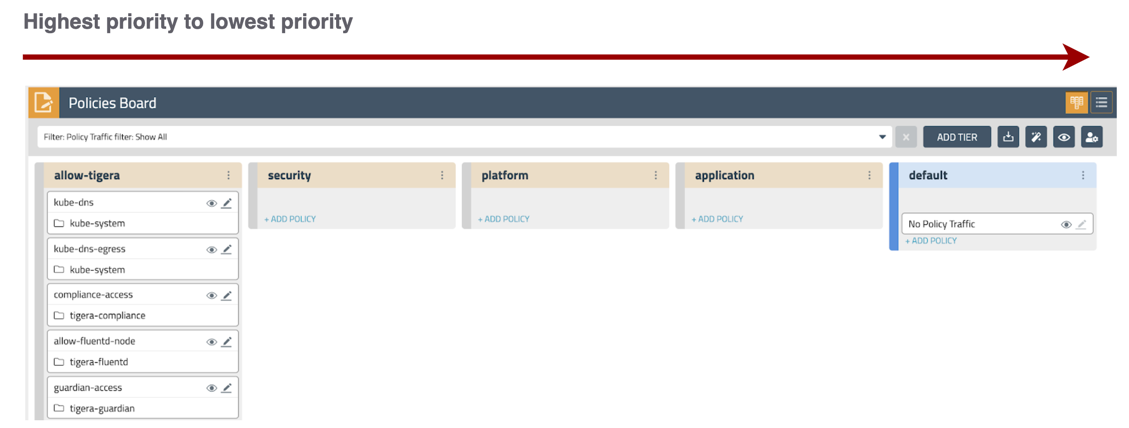
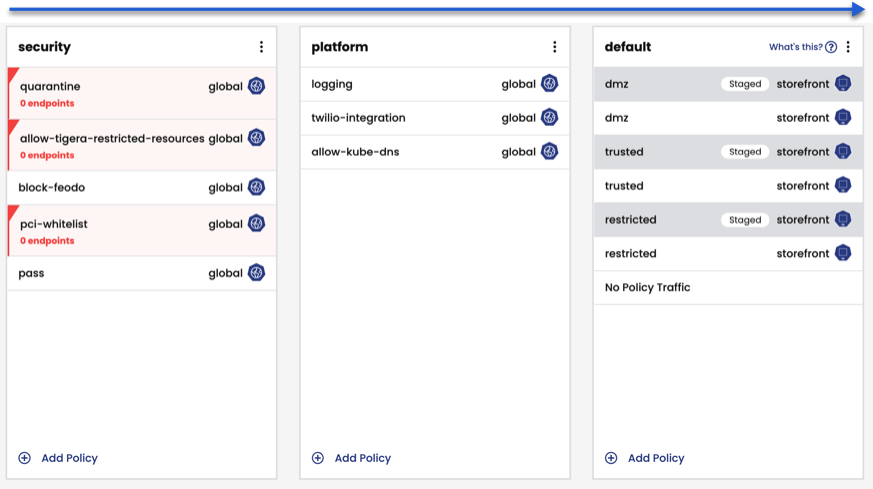
Fix text to match diagram (#4453)

Changed region(s): [[0.0, 0.0, 0.9897, 1.0], [0.3402, 0.9112, 0.4639, 0.972], [0.6804, 0.486, 0.7423, 0.5467]]

diff --git a/calico/security/tiered-policy.md b/calico/security/tiered-policy.md
@@ -4,63 +4,51 @@ description: Understand how tiered policy works and supports microsegmentation.
 canonical_url: /security/tiered-policy
 ---
 
-### Big picture
+### Seamless network policy integration
 
-Learn the basics of tiered policy in {{site.prodname}}.
+**Network policy** is the primary tool for securing a Kubernetes network. It lets you restrict network traffic in your cluster so only the traffic that you want to flow is allowed. {{site.prodname}} provides more robust policy than Kubernetes, but you can use them together -- seamlessly. {{site.prodname}} supports:
 
-### About policy 
+- {{site.prodname}} network policy, (namespaced)
+- {{site.prodname}} global network policy (non-namespaced, global)
+- Kubernetes network policy 
 
-Network policy is the primary tool for securing a Kubernetes network. It lets you restrict network traffic in your cluster so only the traffic that you want to flow is allowed. {{site.prodname}} supports:
+### Tiers: what and why?
 
-- {{site.prodname}} network policy
-- {{site.prodname}} global network policy
-- Kubernetes network policy
+**Tiers** are a hierarchical construct used to group policies and enforce higher precedence policies that cannot be circumvented by other teams. As you will learn in this tutorial, tiers have built-in features that support workload microsegmentation. 
 
-The ability to use both types of policies in the same workflow promotes self-service for microservices teams, while preserving the security controls required by security teams.  
-
-### About tiers 
-
-**Tiers** are a hierarchical construct used to group policies and enforce higher precedence policies that cannot be circumvented by other teams. As part of your microsegmentation strategy, tiers let you apply identity-based protection to workloads and hosts. All {{site.prodname}} and Kubernetes network policies reside in **tiers**.  (Tiers are one of the major feature differences between Project Calico open-source and {{site.prodname}}.) 
-
-To start "thinking in tiers", you can group your teams and types of policies. For example, 
+All {{site.prodname}} and Kubernetes network policies reside in tiers. You can start "thinking in tiers" by grouping your teams and types of policies within each group. For example, we recommend these three tiers (platform, security, and application).
 
 ![policy-types]({{site.baseurl}}/images/policy-types.png)
 
-Next, you can determine the priority of policies in tiers, and draft your policies including whether to use namespaced policy, global policies, and Kubernetes policies. In the following example, the security team and platform teams can manage global {{site.prodname}} network policies that apply to all pods, while developer teams can safely manage pods within namespaces for their microservices using Kubernetes network policy. 
+Next, you can determine the priority of policies in tiers (from top to bottom). In the following example, that platform and security tiers use {{site.prodname}} global network policies that apply to all pods, while developer teams can safely manage pods within namespaces using Kubernetes network policy for their applications and microservices. 
 
 ![policy-tiers]({{site.baseurl}}/images/policy-tiers.png)
 
-### Tier layout in Policy Board 
+### Create a tier and policy
 
-All of the previous steps can be done right in Manager UI, which is a good place to start. Policy Board is a graphical view of your policies in tiers and policies. 
+To create a tier and policy in Manager UI:
 
-To create a tier in Policy Board:
+1. In the left navbar, click **Policies**.
+1. On the **Policies Board**, click **Add Tier**.
+1. Name the tier, select **Order, Add after** `tigera-security`, and save. 
+1. To create a policy in the tier, click **+ Add policy**.
 
-1. From the left navigation bar, click **Policies**.
-1. Click the policy board icon.
-   ![policy-board]({{site.baseurl}}/images/policy-board.png) 
-1. Click **Add Tier**.
-1. Name the tier, select Order, Add after `allow-tigera`, and save. 
+You can export all policies or a single policy to a YAML file.   
 
-**Alternative YAML**
+Here is a sample YAML that creates a security tier and uses `kubectl` to apply it. 
 
 ```yaml
-  apiVersion: projectcalico.org/v3
-  kind: Tier
-  metadata:
-    name: security
-  spec:
-    order: 300
+apiVersion: projectcalico.org/v3
+kind: Tier
+metadata:
+  name: security
+spec:
+ order: 300
 ```
-
-Apply the YAML using `kubectl`.
 
 ```bash
 kubectl apply -f security.yaml
 ```
-1. To create a policy, click the menu and select **Add policy**.
-   ![add-policy]({{site.baseurl}}/images/add-policy.png)
-
 
 ### The default tier: always last
 
@@ -68,38 +56,52 @@ The default tier is created during installation and is always the last tier.
 
 ![default-tier]({{site.baseurl}}/images/default-tier.png)
 
-It is the tier where:
+The default tier is where:
 
-- You manage all of your Kubernetes network policies
-- Calico open source network policies land if you upgrade to {{site.prodname}}
-- The policy recommendation feature puts recommended policies
-
+- You manage all Kubernetes network policies
+- Network and global network policies are placed when you upgrade from Project Calico to {{site.prodname}}
+- Recommended policies are placed when you use the **Recommend a policy** feature
+  
 ### System tiers
 
-System tiers are hidden by default. Currently, we have the `allow-tigera` tier that contains policies for {{site.prodname}} components. System tiers should not be edited or reordered. 
+System tiers are added during installation and are hidden by default. 
 
-![system-tiers]({{site.baseurl}}/images/system-tiers.png)
+- **allow-tigera** - contains component policies 
+   
+>**Important!** Do not modify these tiers or change their order. Create all of your tiers after system tiers.
+{: .alert .alert-warning}
 
->**Tip**: To reorder tiers, you must first make all tiers are visible. Click the “Toggle Tiers” icon and select “Show All”.
-{: .alert .alert-info}
+### Moving tiers
 
-![show-all-tiers]({{site.baseurl}}/images/show-all-tiers.png)
+You can move tiers by dragging and moving them in the graphical sequence, but all tiers must be visible first before you reorder tiers.   
 
+To show all tiers, click **View** and select all of the tiers in the Show tiers list. 
+
+![hidden-tiers]({{site.baseurl}}/images/hidden-tiers.png)
+
+Now you can reorder tiers by dragging and moving them.
+    
 ### Tier order 
 
-Tiers are ordered from left to right, starting with highest priority (also called highest precedence) tiers. In the following example, tier priorities are as follows:
+Tiers are ordered from left to right, starting with the highest priority (also called highest precedence) tiers. 
 
 ![tier-order]({{site.baseurl}}/images/tier-order.png)
 
-The tier you put first as highest priority depends on your environment. In compliance-driven environments, it is common for security teams to request that the security tier be the highest priority --  to ensure the cluster is in compliance at all times. However, if you’re trying to ensure platform communication first, you can put the platform tier first as shown in the above example. There is no one-size-fits-all order.
+In the example above, tier priorities are as follows:
+
+- **security tier** - is higher priority than application tier 
+- **platform tier** - is higher priority than security tier
+- **default tier** - is always the last tier, and cannot be reordered 
+
+The tier you put as the highest priority (after system tiers), depends on your environment. In compliance-driven environments, the security tier may be the highest priority (as shown above). There is no one-size-fits-all order. 
 
 ### Policy processing
 
-Policies are processed in sequential order from the top of a tier, to the bottom of a tier. 
+Policies are processed in sequential order from top to bottom.
 
 ![policy-processing]({{site.baseurl}}/images/policy-processing.png)
 
-There are two important mechanisms that drive how traffic is processed across tiered policies:
+Two mechanisms drive how traffic is processed across tiered policies:
 
 - Labels and selectors
 - Policy action rules
@@ -109,7 +111,8 @@ It is important to understand the roles they play.
 #### Labels and selectors
 
 Instead of IP addresses and IP ranges, network policies in Kubernetes depend on labels and selectors to determine which workloads can talk to each other. Workload identity is the same for Kubernetes and {{site.prodname}} network policies: as pods dynamically come and go, network policy is enforced based on the labels and selectors that you define. 
-The following diagrams shows the relationship between all of the elements that affect traffic flow: 
+
+The following diagrams show the relationship between all of the elements that affect traffic flow: 
 
 - **Tiers** group and order policies
 - **Policy action rules** define how to process traffic in and across tiers, and policy labels and selectors specify how groups of pods are allowed to communicate with each other and other network endpoints
@@ -131,7 +134,7 @@ As shown in the following diagram, at the end of each tier is an implicit defaul
 
 ![implicit-deny]({{site.baseurl}}/images/implicit-deny.svg)
 
-Let’s look at a Dev/Ops global network policy in a high precedence tier (Platform). The policy denies ingress and egress traffic to workloads that match selector, `env != "stage"`. To ensure that policies continue to evaluate traffic after this policy, the policy adds an action: pass for both ingress and egress.
+Let’s look at a Dev/Ops global network policy in a high precedence tier (Platform). The policy denies ingress and egress traffic to workloads that match selector, `env != "stage"`. To ensure that policies continue to evaluate traffic after this policy, the policy adds a Pass action for both ingress and egress.
 
 **Pass action rule example**
 
@@ -163,13 +166,13 @@ spec:
 
 Whoever is responsible for tier creation, also needs to understand how policy selects matching endpoints across tiers. For normal policy processing (without apply-on-forward, pre-DNAT, and do-not-track), if no policies within a tier apply to endpoints, the tier is skipped, and the tier's implicit deny behavior is not executed. 
 
-For example, if policy D in Tier 1 includes a **Pass** action rule, but no policy matches endpoints in Tier 2, Tier 2 is skipped, including the end of tier deny. And the first policy with a matching endpoint is in Tier 3, **policy J**.
+For example, if policy D in Tier 2 includes a **Pass action rule**, but no policy matches endpoints in Tier 3, Tier 3 is skipped, including the end of tier deny. The first policy with a matching endpoint is in Tier 4, policy J.
 
 ![endpoint-match]({{site.baseurl}}/images/endpoint-match.svg)
 
 #### Default endpoint behavior
 
-Also, tier managers need to understand the default behavior for endpoints based whether the endpoint is known or unknown, and the endpoint type. As shown in the following table: 
+Also, tier managers need to understand the default behavior for endpoints based on whether the endpoint is known or unknown, and the endpoint type. As shown in the following table: 
 
 - **Known endpoints** - {{site.prodname}} resources that are managed by Felix
 - **Unknown endpoints** - interfaces/resources not recognizable as part of our data model 
@@ -178,7 +181,7 @@ Also, tier managers need to understand the default behavior for endpoints based 
 | ---------------- | -------------------------------------------- | -------------------------------------------- |
 | Workload, {{site.prodname}} | Deny | Deny |
 | Workload, Kubernetes | Allow ingress from same Kubernetes namespace; allow all egress | Deny |
-| Host        | Deny. With exception of auto host endpoints, which gets `default-allow `. | Fall through and use iptable rules |
+| Host        | Deny. With exception of auto host endpoints, which get `default-allow`. | Fall through and use iptable rules |
 
 ### Best practices for tiered policy
 
@@ -186,16 +189,16 @@ To control and authorize access to {{site.prodname}} tiers, policies, and Kubern
 
 We recommend:
 
-- Limit tier creation permissions to Admin users only (`tigera-network-admin`); creating and reordering tiers affects your policy processing workflow 
+- Limit tier creation permissions to Admin users only; creating and reordering tiers affects your policy processing workflow 
 
 - Limit full CRUD operations on tiers and policy management to select Admin users
 
 - Review your policy processing whenever you add/reorder tiers  
 
-  For example, you may need to add new Pass action rules to policies before or after the new tier. Intervening tiers may require changes to policies before and after, depending on the endpoints.
+  For example, you may need to update Pass action rules to policies before or after the new tier. Intervening tiers may require changes to policies before and after, depending on the endpoints.
 
-- Use the [staged network policy]({{site.baseurl}}/security/policy-lifecycle/) feature to eliminate any cluster/network outage caused by introducing new policies. You can preview the new policy and see its effect in action before enforcing it.  
+- Use the **policy preview** feature to see effects of policy in action before enforcing it, and use the **staged network policy** feature to test the entire tier workflow before pushing it to production  
 
 ### Above and beyond
 
-- For details on using RBAC for fine-grained access to tiers and policies, see [Configure RBAC for tiered policies]({{site.baseurl}}/security/rbac-tiered-policies).
+- For details on using RBAC for fine-grained access to tiers and policies, see [Configure RBAC for tiered policies]({{site.baseurl}}/security/rbac-tiered-policies). 
